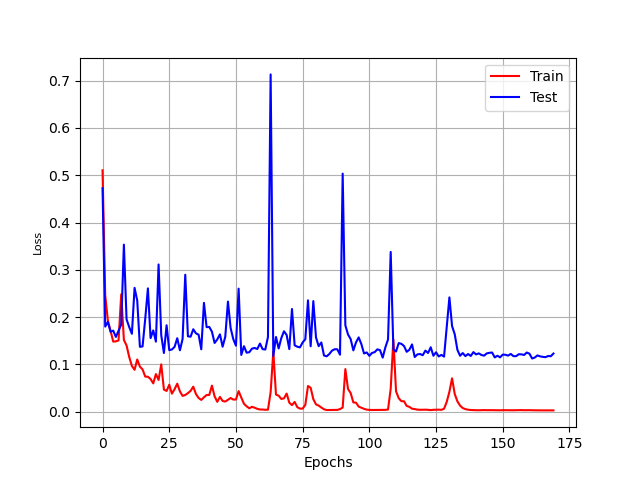
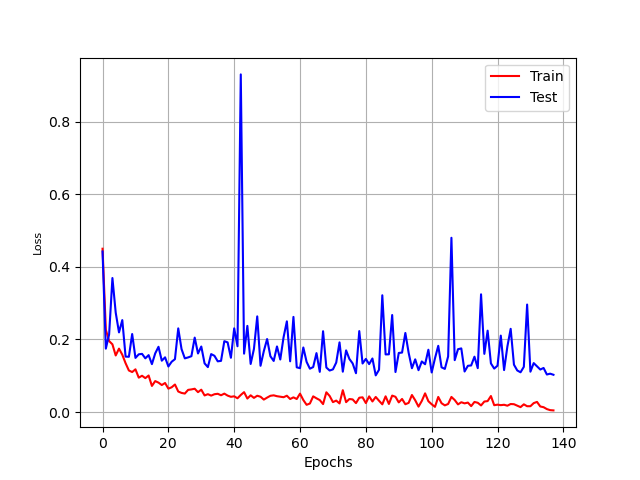
CV

diff --git a/CV/cars/bcnn.py b/CV/cars/bcnn.py
@@ -21,9 +21,11 @@ class BilinearModel(nn.Module):
         outputs: torch.Tensor = self.features(
             inputs
         )  # extract features from pretrained base
-        outputs = outputs.view(-1, 512, 28 ** 2)  # reshape to batchsize * 512 * 28 ** 2
+        outputs = outputs.view(
+            inputs.shape[0], 512, 15 ** 2
+        )  # reshape to batchsize * 512 * 28 ** 2
         outputs = torch.bmm(outputs, outputs.permute(0, 2, 1))  # bilinear product
-        outputs = torch.div(outputs, 28 ** 2)  # divide by 196 to normalize
+        outputs = torch.div(outputs, 15 ** 2)  # divide by 196 to normalize
         outputs = outputs.view(-1, 512 ** 2)  # reshape to batchsize * 512 * 512
         outputs = torch.sign(outputs) * torch.sqrt(
             outputs + 1e-5
@@ -31,3 +33,34 @@ class BilinearModel(nn.Module):
         outputs = nn.functional.normalize(outputs, p=2, dim=1)  # l2 normalization
         outputs = self.classifier(outputs)  # linear projection
         return outputs
+
+
+# class BilinearModel(nn.Module):
+#     def __init__(self, num_classes=20, pretrained=True):
+#         super(BilinearModel, self).__init__()
+#         features = models.vgg16(pretrained=pretrained)
+#         # Remove the pooling layer and full connection layer
+#         self.conv = nn.Sequential(*list(features.children())[:-1])
+#         self.fc = nn.Linear(512 * 512, num_classes)
+
+#         if pretrained:
+#             for parameter in self.conv.parameters():
+#                 parameter.requires_grad = False
+#             nn.init.kaiming_normal_(self.fc.weight.data)
+#             nn.init.constant_(self.fc.bias, val=0)
+
+#     def forward(self, input):
+#         features = self.conv(input)
+#         # Cross product operation
+
+#         features = features.view(features.size(0), 512, -1)
+#         features_T = torch.transpose(features, 1, 2)
+#         features = torch.bmm(features, features_T) / 49
+#         features = features.view(features.size(0), 512 * 512)
+#         # The signed square root
+#         features = torch.sign(features) * torch.sqrt(torch.abs(features) + 1e-12)
+#         # L2 regularization
+#         features = torch.nn.functional.normalize(features)
+
+#         out = self.fc(features)
+#         return out

diff --git a/CV/gender/train_small.py b/CV/gender/train_small.py
@@ -3,6 +3,8 @@ import argparse
 import shutil
 import torch
 import torchvision
+import random
+import os
 import torch.nn as nn
 import torch.nn.functional as F
 import torch.optim as optim
@@ -47,7 +49,7 @@ def train(model, dataloader, optimizer, scheduler, loss_fn, epoch):
         train_loss += loss.item()
         _, predicted = outputs.max(1)
         total += labels_batch.size(0)
-        correct += predicted.eq(labels_batch).sum().item()
+        correct += predicted.eq(labels_batch.squeeze()).sum().item()
 
         # write to tensorboard
         writer.add_scalar(
@@ -132,7 +134,7 @@ def main():
     parser.add_argument(
         "--batch-size",
         type=int,
-        default=128,
+        default=64,
         metavar="N",
         help="input batch size for training (default: 128)",
     )
@@ -160,7 +162,12 @@ def main():
     )
     args = parser.parse_args()
 
+    random.seed(args.seed)
+    os.environ['PYTHONHASHSEED'] = str(args.seed)
+    np.random.seed(args.seed)
     torch.manual_seed(args.seed)
+    torch.cuda.manual_seed(args.seed)
+    torch.backends.cudnn.deterministic = True
 
     train_kwargs = {"batch_size": args.batch_size}
     test_kwargs = {"batch_size": args.batch_size}
@@ -171,7 +178,7 @@ def main():
 
     train_transforms = transforms.Compose(
         [
-            transforms.RandomCrop(32, padding=4),
+            transforms.RandomCrop(64, padding=2),
             transforms.RandomHorizontalFlip(),
             transforms.ToTensor(),
             transforms.Normalize((0.4914, 0.4822, 0.4465), (0.2023, 0.1994, 0.2010)),
@@ -241,7 +248,7 @@ def main():
         if test_acc > best_acc:
             best_acc = test_acc
         if test_acc > 97.0:
-            print("Error < 5.0 achieved, stopped training")
+            print("Error < 3.0 achieved, stopped training")
             break
         if args.save_model and test_acc >= best_acc:
             checkpoint = {

diff --git a/CV/cars/train.py b/CV/cars/train.py
@@ -132,14 +132,14 @@ def main():
     parser.add_argument(
         "--batch-size",
         type=int,
-        default=128,
+        default=8,
         metavar="N",
         help="input batch size for training (default: 128)",
     )
     parser.add_argument(
         "--epochs",
         type=int,
-        default=200,
+        default=500,
         metavar="N",
         help="number of epochs to train (default: 200)",
     )
@@ -193,6 +193,10 @@ def main():
 
     y_train = np.load("data/y_train.npy")
     y_test = np.load("data/y_test.npy")
+
+    # Fix class labels
+    y_train = y_train - 1
+    y_test = y_test - 1
 
     y_train = torch.from_numpy(y_train).squeeze().long()
     y_test = torch.from_numpy(y_test).squeeze().long()

diff --git a/CV/gender/resnet.py b/CV/gender/resnet.py
@@ -69,7 +69,7 @@ class ResNet_small(nn.Module):
         self.bn1 = nn.BatchNorm2d(32)
 
         self.blocks = ResBlock(32, 32, 1,)
-        self.fw = nn.Linear(4608, 2)  # 10 Classes
+        self.fw = nn.Linear(4608, 2)  # 2 Classes
 
     def forward(self, x):
         out = F.relu(self.bn1(self.conv1(x)))
